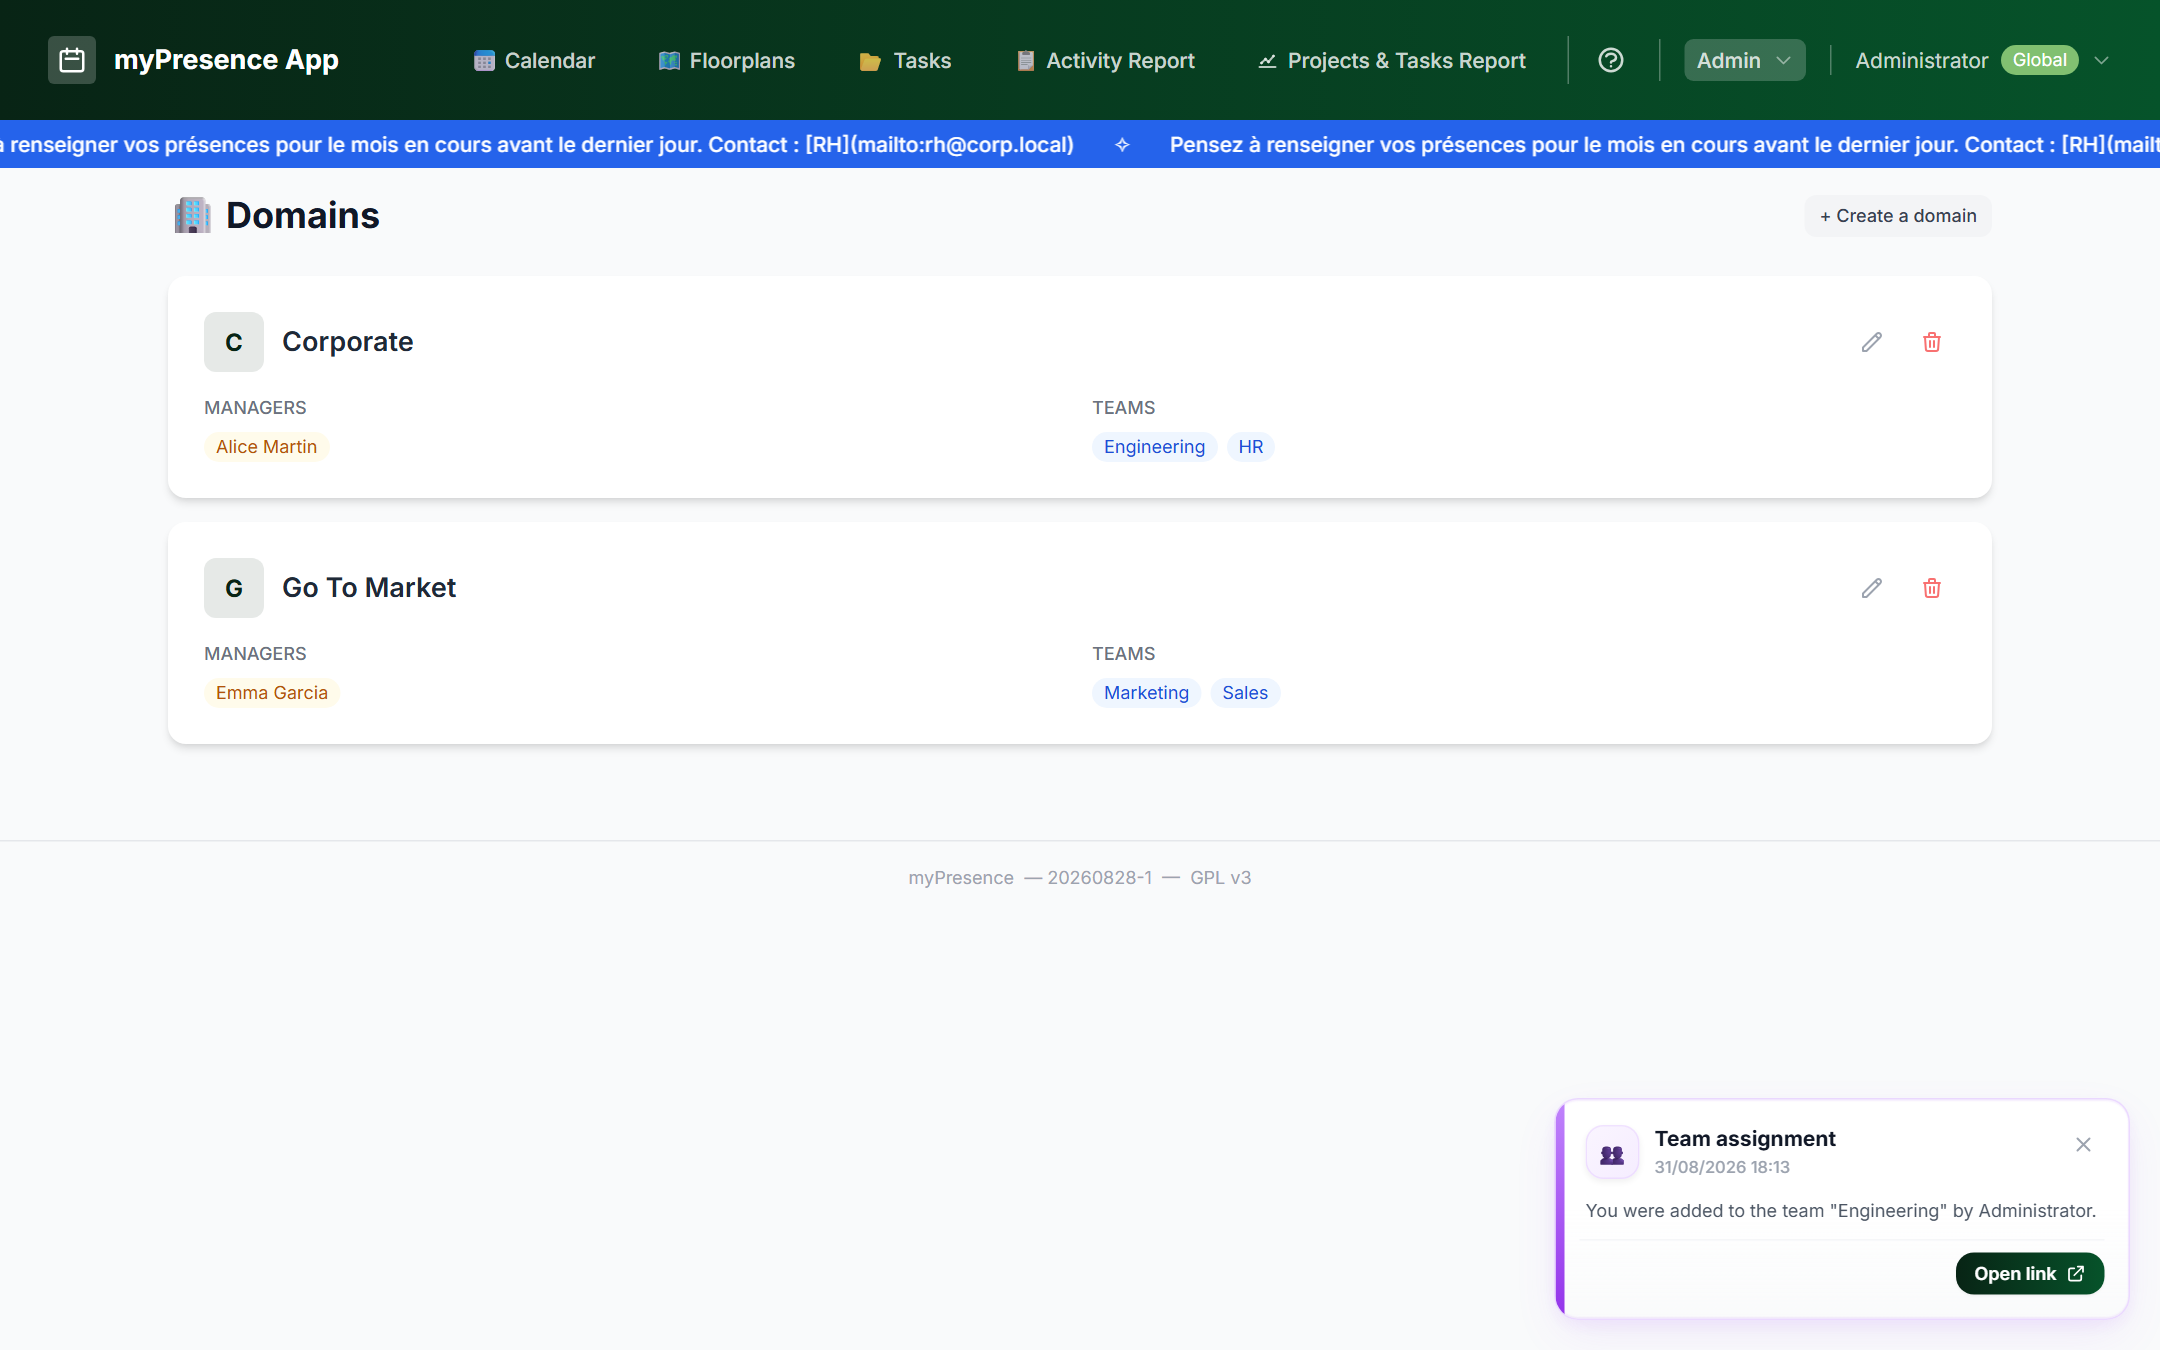
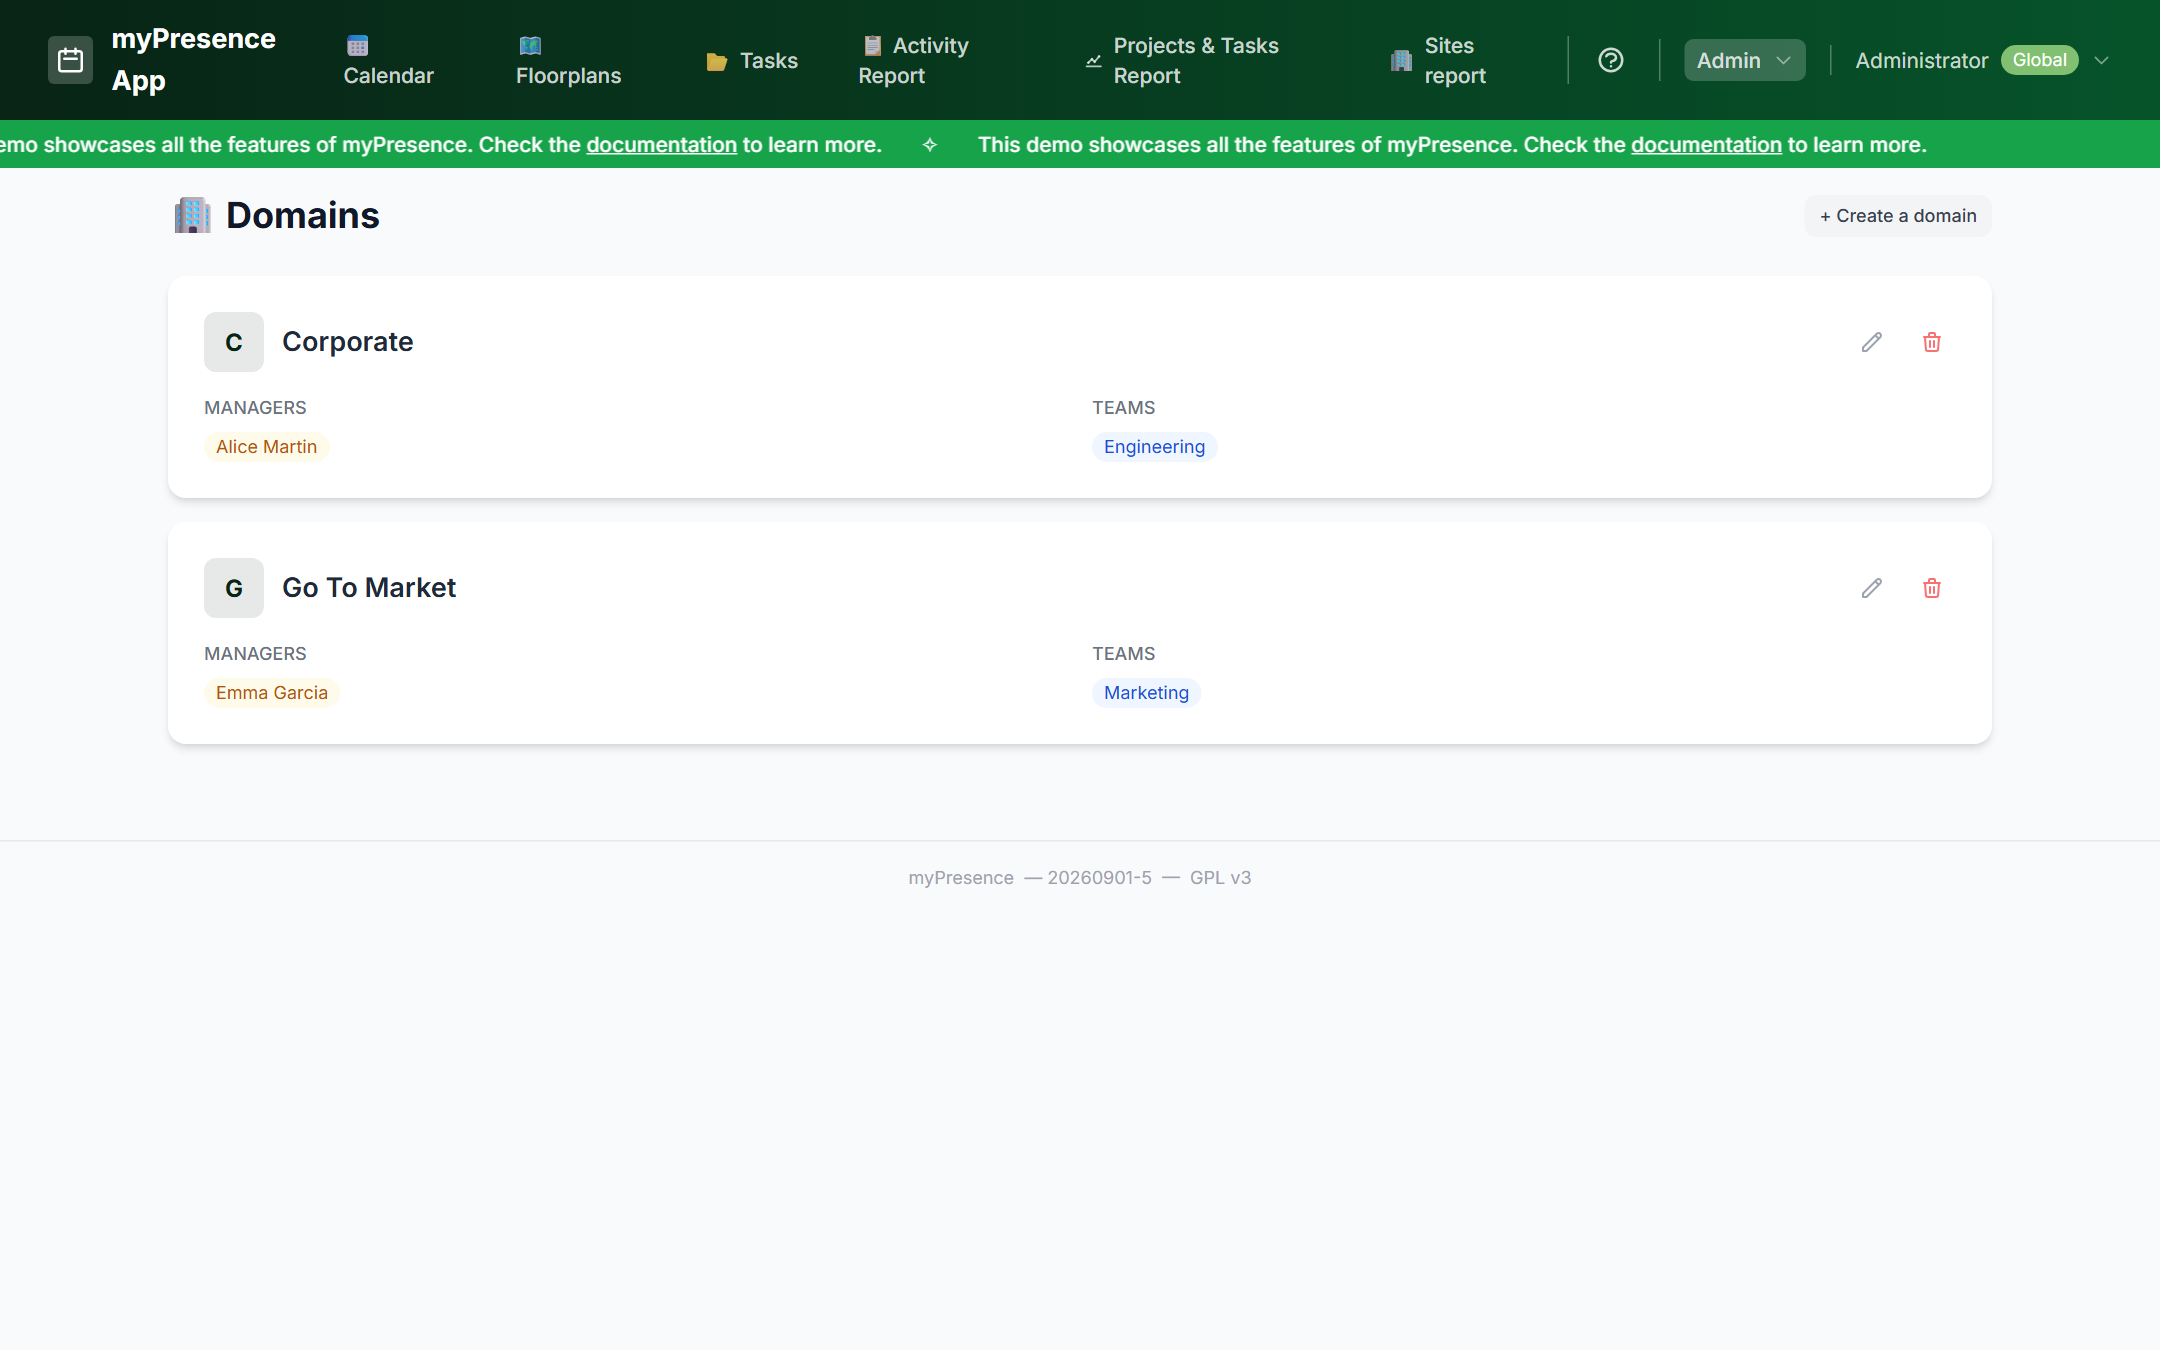
refresh screenshots + add sites report page

Changed region(s): [[0.0, 0.0, 1.0, 0.1244], [0.7134, 0.8089, 0.9926, 0.9644], [0.5583, 0.4978, 0.5894, 0.5289]]

diff --git a/main.go b/main.go
@@ -447,8 +447,17 @@ func registerOptionalAdminRoutes(mux, authMux *http.ServeMux, cfg *config.Config
 		fpAdminMux.HandleFunc("DELETE /admin/floorplans/{id}", floorplanHandler.DeleteFloorplan)
 		fpAdminMux.Handle("POST /admin/floorplans/{id}/image", middleware.ValidateCSRF(cfg.SecretKey)(http.HandlerFunc(floorplanHandler.UploadFloorplanImage)))
 		fpAdminMux.HandleFunc("POST /admin/floorplans/{id}/seats", floorplanHandler.CreateSeat)
+		fpAdminMux.HandleFunc("GET /admin/seats", floorplanHandler.AdminListSeats)
+		fpAdminMux.HandleFunc("GET /api/admin/seats", floorplanHandler.AdminListSeats)
 		fpAdminMux.HandleFunc("PUT /admin/seats/{id}", floorplanHandler.UpdateSeat)
 		fpAdminMux.HandleFunc("DELETE /admin/seats/{id}", floorplanHandler.DeleteSeat)
+		fpAdminMux.HandleFunc("PUT /api/admin/seats/{id}", floorplanHandler.UpdateSeat)
+		fpAdminMux.HandleFunc("DELETE /api/admin/seats/{id}", floorplanHandler.DeleteSeat)
+		fpAdminMux.HandleFunc("GET /api/admin/floorplans/{id}", floorplanHandler.AdminGetFloorplan)
+		fpAdminMux.HandleFunc("POST /api/admin/floorplans", floorplanHandler.CreateFloorplan)
+		fpAdminMux.HandleFunc("PUT /api/admin/floorplans/{id}", floorplanHandler.UpdateFloorplan)
+		fpAdminMux.HandleFunc("DELETE /api/admin/floorplans/{id}", floorplanHandler.DeleteFloorplan)
+		fpAdminMux.HandleFunc("POST /api/admin/floorplans/{id}/seats", floorplanHandler.CreateSeat)
 		fpAdminMux.HandleFunc("GET /admin/sites-report", floorplanHandler.SitesReportPage)
 		fpAdminMux.HandleFunc("GET /api/admin/sites-report", floorplanHandler.SitesReportAPI)
 		fpAdminMux.HandleFunc("GET /admin/sites", floorplanHandler.AdminSitesPage)
@@ -465,7 +474,12 @@ func registerOptionalAdminRoutes(mux, authMux *http.ServeMux, cfg *config.Config
 		mux.Handle("/admin/sites-report", middleware.Auth(database, middleware.RequireRole(models.RoleFloorplanManager)(fpAdminMux)))
 		mux.Handle("/admin/sites", middleware.Auth(database, middleware.RequireRole(models.RoleFloorplanManager)(fpAdminMux)))
 		mux.Handle("/admin/sites/", middleware.Auth(database, middleware.RequireRole(models.RoleFloorplanManager)(fpAdminMux)))
+		mux.Handle("/admin/seats", middleware.Auth(database, middleware.RequireRole(models.RoleFloorplanManager)(fpAdminMux)))
 		mux.Handle("/admin/seats/", middleware.Auth(database, middleware.RequireRole(models.RoleFloorplanManager)(fpAdminMux)))
+		mux.Handle("/api/admin/seats", middleware.Auth(database, middleware.RequireRole(models.RoleFloorplanManager)(fpAdminMux)))
+		mux.Handle("/api/admin/seats/", middleware.Auth(database, middleware.RequireRole(models.RoleFloorplanManager)(fpAdminMux)))
+		mux.Handle("/api/admin/floorplans", middleware.Auth(database, middleware.RequireRole(models.RoleFloorplanManager)(fpAdminMux)))
+		mux.Handle("/api/admin/floorplans/", middleware.Auth(database, middleware.RequireRole(models.RoleFloorplanManager)(fpAdminMux)))
 		mux.Handle("/api/admin/", middleware.Auth(database, middleware.RequireRole(models.RoleFloorplanManager)(fpAdminMux)))
 	}
 	if !cfg.DisableProjects {

diff --git a/README.md b/README.md
@@ -777,8 +777,17 @@ docker compose down && docker compose up -d --build
 ### Personal Calendar (April 2026)
 ![Calendar with presence data](docs/screenshots/02-calendar.png)
 
+### Project Time Imputation
+![Project time imputation](docs/screenshots/09-projects-imputation.png)
+
 ### Activity Report
 ![Activity report for Engineering team](docs/screenshots/07-activity.png)
+
+### Projects Report
+![Projects report](docs/screenshots/10-projects-report.png)
+
+### Sites Report
+![Sites report](docs/screenshots/11-sites-report.png)
 
 ### Teams
 ![Teams management](docs/screenshots/05-teams.png)
@@ -798,11 +807,6 @@ docker compose down && docker compose up -d --build
 ### Floor Plans
 ![Floor plan with seat reservations](docs/screenshots/08-floorplan.png)
 
-### Project Time Imputation
-![Project time imputation](docs/screenshots/09-projects-imputation.png)
-
-### Projects Report
-![Projects report](docs/screenshots/10-projects-report.png)
-
 ### Grafana Dashboard
 ![Grafana dashboard](docs/screenshots/09-grafana.png)
+
